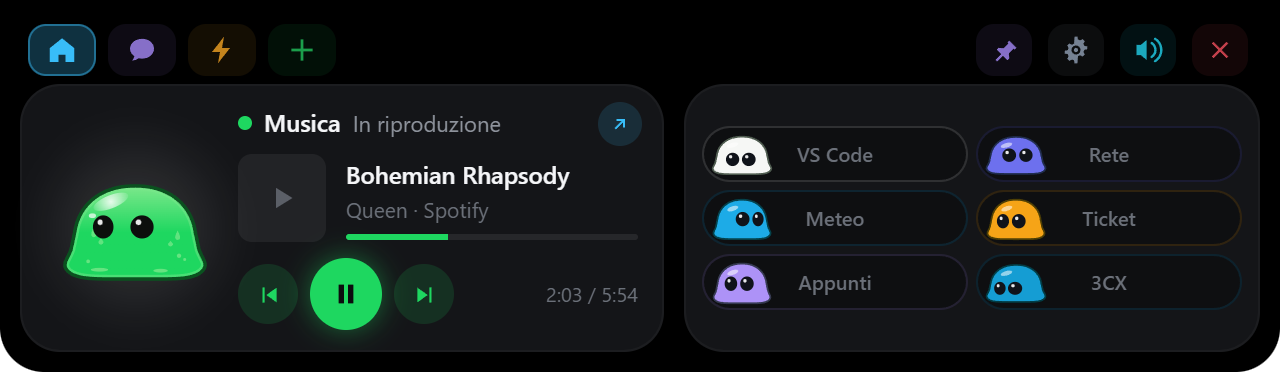
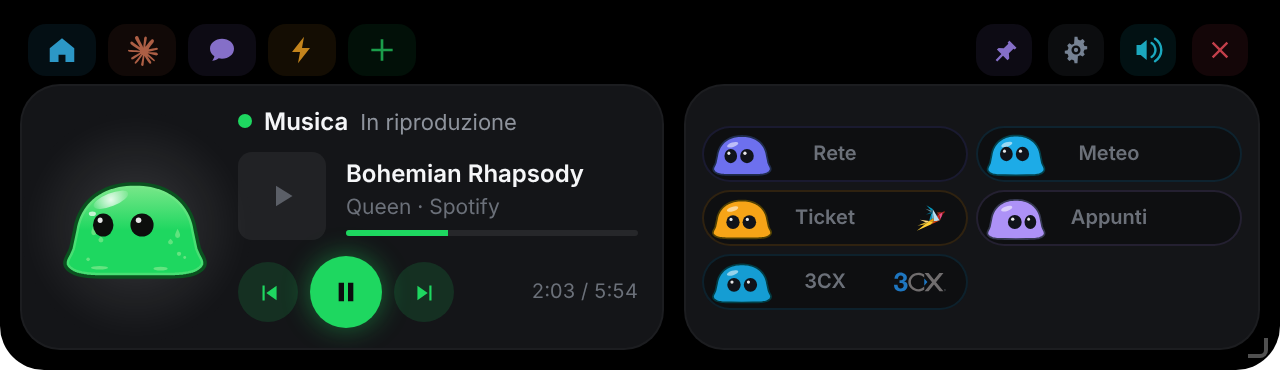
Versione 0.5.9: README e schermate aggiornati
Claude-Session: https://claude.ai/code/session_01EeUdNqCRgMRzaxs9FinDSM

diff --git a/src/settings/main.ts b/src/settings/main.ts
@@ -1025,7 +1025,7 @@ function placementSection(): HTMLElement {
       h("label", { text: "Altezza minima" }),
       slider(0, MAX_ISLAND_H, 8, Math.round(settings.islandHeight ?? 0), "px", (v) => { settings.islandHeight = v; commit(); }),
       h("button", { text: "Predefinite", onclick: () => { settings.islandWidth = 640; settings.islandHeight = 0; commit(); render(); } }),
-      h("span", { class: "hint note", text: "dell'isola aperta; 0 = ogni vista con la sua altezza. Si regolano anche trascinando l'angolo in basso dell'isola aperta (doppio clic: predefinite)" }),
+      h("span", { class: "hint note", text: "0 = l'altezza di ogni vista; anche trascinando l'angolo dell'isola aperta" }),
     ),
     h("div", { class: "row" },
       h("label", { text: "Sopra la barra" }),

diff --git a/README.md b/README.md
@@ -183,7 +183,7 @@ disinstallatore volutamente non tocca il `settings.json` di Claude Code. Poi
 ## Come si usa
 
 <img src="screenshots/compact.png" width="288" alt="L'isola compatta, con le pillole delle integrazioni come mini Slime">
-<img src="screenshots/overview.png" width="640" alt="La panoramica: una sessione di Claude Code al lavoro a sinistra, le altre pillole a destra">
+<img src="screenshots/overview.png" width="640" alt="La panoramica: tutte le integrazioni con il loro stato">
 <img src="screenshots/approval.png" width="640" alt="Una richiesta di permesso di Claude Code, con Nega e Consenti">
 <img src="screenshots/chat.png" width="640" alt="Chat con Claude dall'isola">
 <img src="screenshots/drop.png" width="640" alt="Slime trasformato in una scatola, in attesa di un file, con Cattura una zona e Vassoio">
@@ -192,9 +192,12 @@ _Schermate generate dall'anteprima con `node scripts/screenshots.mjs` (serve `np
 
 | Cosa fai | Cosa succede |
 |---|---|
-| Porti il mouse sull'icona di Slime (in alto al centro, o nell'angolo che hai scelto) | Slime si ingrandisce (o resta sempre così, con **Sempre visibile**) |
+| Porti il mouse sull'icona di Slime (in alto al centro, o nell'angolo che hai scelto) | Slime si ingrandisce (o resta sempre così, con **Sempre visibile**), fa un balzo, ti guarda e alza una mano |
 | Clicchi su Slime, o lasci il mouse sopra per un attimo se "Apri dopo" lo prevede | Si apre l'isola, allineata a quel lato |
-| Trascini Slime tenendo premuto il tasto sinistro (anche l'icona a riposo) | Si sposta dove lo lasci, e la posizione resta salvata nel profilo |
+| Trascini Slime tenendo premuto il tasto sinistro (anche l'icona a riposo) | Si sposta dove lo lasci, anche su un altro schermo, e la posizione resta salvata nel profilo |
+| Trascini l'angolo in basso dell'isola aperta | Cambia larghezza e altezza dell'isola; il contenuto si adatta. Doppio clic sull'angolo: misure predefinite |
+| Scheda ⌂ **Panoramica** | Tutte le integrazioni con il loro stato e il loro logo; un clic ne apre una, trascinandole le riordini. Il personaggio mostra lo stato più urgente |
+| Scheda di **Claude Code** (il logo di Claude) | La sessione di Claude Code: avanzamento, modifiche, permessi. L'aspetto della scheda (logo, nome o emoji) si sceglie in Impostazioni → Claude |
 | Trascini l'isola aperta dallo spazio vuoto dell'intestazione | Resta lì finché è aperta; chiudendola torna al posto di Slime |
 | Trascini una pillola o una scheda in alto | Cambia posto (si blocca in Impostazioni → Integrazioni) |
 | Clicchi su Slime | Si infastidisce. Tre volte di fila e gli gira la testa |
@@ -205,7 +208,7 @@ _Schermate generate dall'anteprima con `node scripts/screenshots.mjs` (serve `np
 | Scrivi un calcolo nella chat, es. `840 + 22%` o `15% di 840` | Compare subito il risultato; **Invio** lo copia negli appunti, **Ctrl+Invio** chiede comunque a Claude. Il calcolo è fatto in locale, senza Claude |
 | Rilasci uno ZIP | Oltre a "Fai una domanda" c'è **Estrai…**: vedi cosa contiene e lo estrai in una cartella nuova accanto all'originale, in Download o sul Desktop |
 | Scheda **+** → **Cattura una zona** (o `Ctrl+Alt+Shift+S`) | Lo Strumento di cattura di Windows: scegli una zona, una finestra o lo schermo e la chat si apre con l'immagine allegata |
-| Scheda **+** → **Vassoio** | I file rilasciati sull'isola, tenuti finché EasyIsland non si riavvia: trascinali in un'altra app (mail, chat, cartella), chiedi a Claude, apri, mostra nella cartella, togli uno o tutti. Sono copie: gli originali non vengono toccati |
+| Scheda **+** → **Vassoio** (o il pulsante **Vassoio** dopo aver rilasciato un file) | I file rilasciati sull'isola, in elenco o a griglia, tenuti finché EasyIsland non si riavvia: trascinali in un'altra app (mail, chat, cartella), chiedi a Claude, apri, mostra nella cartella, togli uno o tutti. Sono copie: gli originali non vengono toccati |
 | Icona nell'area di notifica | Apri, Impostazioni…, Pausa, Esci |
 
 Tutto il resto succede da solo: una richiesta di permesso di Claude Code apre
@@ -242,6 +245,10 @@ modifiche al massimo, un'ora al massimo, cancellate a fine sessione). Oltre
   l'icona a riposo (un clic la apre). L'isola **aperta** si sposta tenendo premuto
   sullo spazio vuoto dell'intestazione: resta lì finché è aperta, poi alla chiusura
   torna scivolando al posto del personaggio e si riapre sempre da lì.
+- **Schermo**: principale, quello sotto il cursore, oppure quello su cui hai
+  trascinato Slime (se viene scollegato, torna sul principale).
+- **Larghezza** e **Altezza minima** dell'isola aperta (anche trascinando il suo
+  angolo in basso; *Predefinite* le riporta a 640 px e all'altezza di ogni vista).
 - **Sopra la barra**: Slime può stare anche sopra la barra delle applicazioni
   (spento: resta sopra di essa, nell'area di lavoro).
 - **Aggancia ai bordi**: lasciato a pochi pixel da un bordo dello schermo, lo
@@ -291,6 +298,12 @@ di EasyIsland. Le impostazioni si cambiano nell'indirizzo, per esempio
 | **Script** | esegue comandi PowerShell o del Prompt dei comandi, nascosti, e mostra l'output nell'isola (con *Interrompi*, timeout di 5 minuti). Parte **solo dopo un clic**; con "Chiedi conferma" mostra prima i comandi |
 | **Programma / cartella** | avvia un programma con i suoi argomenti (es. `mstsc /v:server01`) o apre una cartella |
 | **Link** | apre un indirizzo nel browser |
+
+**Cartelle**: ogni azione può stare in una cartella (campo *Cartella*, con
+un'icona scelta dalla griglia). Nella scheda ⚡ le cartelle compaiono prima delle
+altre azioni, con il numero di azioni dentro; un clic le apre, **‹** torna
+indietro. Con più di 8 azioni compare **Cerca un'azione**: cerca anche dentro le
+cartelle, Invio esegue la prima trovata.
 
 **Suggerimenti per l'app in uso**: in cima alla scheda ⚡ compaiono azioni pronte
 per l'app che stai usando, applicate al testo che hai selezionato: per Outlook
@@ -478,7 +491,8 @@ attivo.
   isola chiusa resta solo il personaggio, senza il cerchio o la barra), volume
   separato per avvisi, interfaccia ed emozioni. Slime è uno slime di gelatina verde che ondeggia quando si
   muove; Goccia è un piccolo spirito d'acqua azzurro, lucido, a forma di goccia;
-  EasyTech è un cubo, a riposo con i colori del logo da cui è disegnato. Negli
+  EasyTech è un cubo, a riposo con i colori del logo da cui è disegnato (o con il
+  colore del tema, se lo scegli). Negli
   altri stati tutti prendono il colore dello stato (blu mentre lavora, ambra per
   un permesso, rosso per un errore…). EasyTech ha gli occhi su un lato, con le
   stesse espressioni, e segue il mouse come gli altri. Anteprima senza

diff --git a/HANDOFF.md b/HANDOFF.md
@@ -1,6 +1,6 @@
 # Handoff — EasyIsland
 
-_Aggiornato al 6 ottobre 2026 · versione pubblicata **0.5.8** · branch di lavoro `claude/sviluppo`, principale `main` · repository pubblico `EdoardoDevelop/easyisland`._
+_Aggiornato al 7 ottobre 2026 · versione **0.5.9** (in `main`, tag da creare) · branch di lavoro `claude/sviluppo`, principale `main` · repository pubblico `EdoardoDevelop/easyisland`._
 
 Il minimo per riprendere il lavoro. Struttura del codice e regole sono in `CLAUDE.md` (caricato in automatico); la storia completa (roadmap originale, analisi, registro dal 1° al 6 ottobre 2026) è in `HANDOFF-archivio.md`.
 
@@ -70,6 +70,10 @@ Verificato solo con i test o nell'anteprima del browser:
 ## 7. Registro
 
 Il registro completo fino al 6 ottobre 2026 è in `HANDOFF-archivio.md`. Le nuove voci vanno qui sotto, la più recente in alto.
+
+### 7 ottobre 2026 — versione 0.5.9
+- README aggiornato (Panoramica, scheda Claude Code, larghezza/altezza, schermi, Vassoio, cartelle delle azioni, ciao al passaggio) e schermate rifatte con `scripts/screenshots.mjs` (qui con Chromium su Linux: i caratteri possono differire leggermente da Edge).
+- Versione 0.5.9 in `package.json`, `Cargo.toml`, `tauri.conf.json`, lock; unita in `main`. Rust non compilato in questa sessione: la CI su Windows è il primo controllo.
 
 ### 6 ottobre 2026 — correzioni dalla prova di Edoardo
 - **EasyTech** prende il colore del tema e quello dell'integrazione in primo piano (`wearsIntegrationColor: true`); senza, resta il logo.
